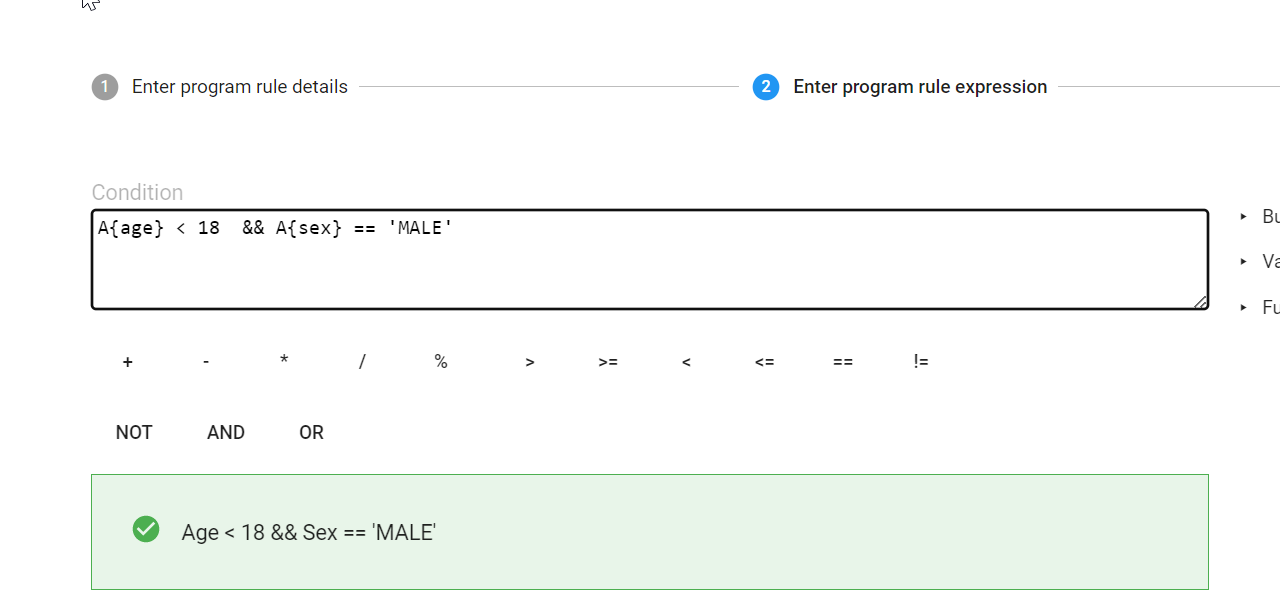
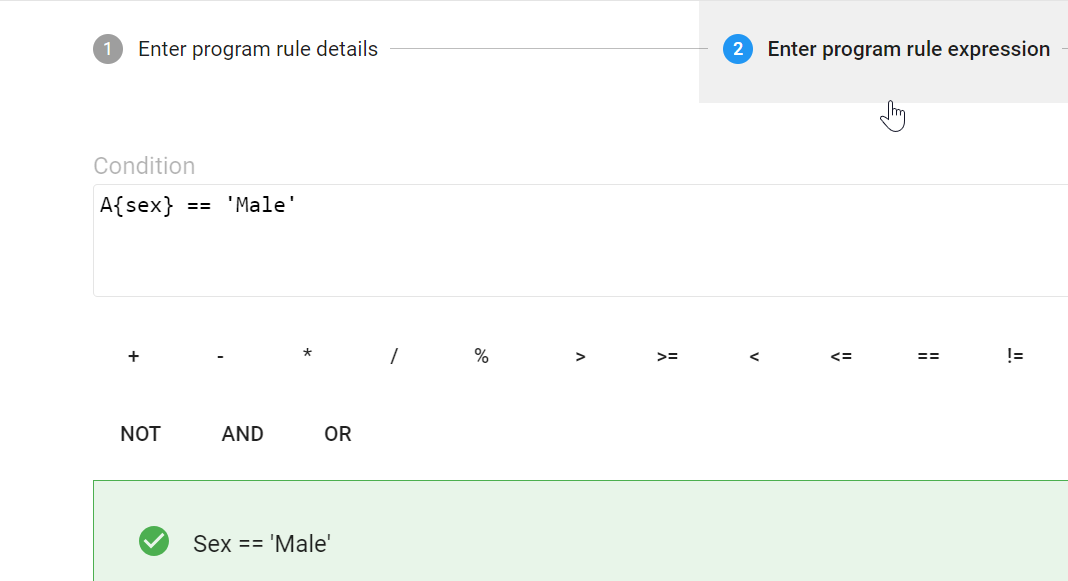
changes

diff --git a/content/tracker_config/tg_programrules.md b/content/tracker_config/tg_programrules.md
@@ -42,9 +42,9 @@ Decide how you would like to run the session. The guide has you alternating betw
 
 STOP - Have the participant’s perform Exercise 1 in the learner’s guide
 
-2. Create a program rule using the ANC program
+2. Create a program rule using the TB Treatment Program
    
-    1. If gravidity is one or less, hide parity
+    1. If sex is Male then hide Pregnant
     2. Test the rule
 
 STOP - Have the participant’s perform Exercise 2 in the learner’s guide
@@ -193,9 +193,9 @@ You will get an error message saying that the EPTB Site value was deleted. The l
 
 ![](Images/pr/image12.png)
 
-#### STOP - Have the participant’s perform Exercise 1 in the learner’s guide
+### STOP - Have the participant’s perform Exercise 1 in the learner’s guide
 
-## **Rule 2 -** Create a program rule to hide pregnant if Age is less than 18 and Gender is Male using the TB Program
+## **Rule 2 -** Create a program rule to hide pregnant if Gender is Male using the TB Program
 
 **Access the Programs rules from Maintenance App ⇒ Program**
 
@@ -209,18 +209,15 @@ You will get an error message saying that the EPTB Site value was deleted. The l
 
 **Add in a new program rule variable**
 
-![](Images/pr/image3.png)
-
-And
-
 ![](Images/pr/image37.png)
 
 **Create a Program Rule**
-Hide pregnant if sex is less than 18 and sex is Male
+
+Hide pregnant if sex is Male
 
 Enter the program rule details.
 
-In the expression, we are using numbers. There are no quotes needed around the number. We will also hide the pregnant if sex is Male.
+In the expression, we are using option from Gender that we have created 
 
 ![](Images/pr/image39.png)
 
@@ -228,7 +225,7 @@ In the expression, we are using numbers. There are no quotes needed around the n
 
 Clear the cache if needed, than go to tracker capture to test the rule
 
-Pregnant should be hidden if age is less than 18 and sex is Male
+Pregnant should be hidden if sex is Male
 
 ![](Images/pr/image34.png)
 
@@ -295,7 +292,7 @@ When the weight is within the range you have defined, or the weight data element
 
 ## Rule 4 - Create a program rule using the TB Treatment Card. 
 
-## Show the disease site in the feedback widget
+Show the disease site in the feedback widget
 
 **Access the Programs rules from Maintenance App ⇒ Program**
 

diff --git a/content/tracker_config/lg_programrules.md b/content/tracker_config/lg_programrules.md
@@ -138,7 +138,7 @@ You will get an error message saying that the EPTB Site value was deleted. The l
 
 ![](Images/pr/image12.png)
 
-## Exercise 1 - Create a program rule to hide pregnant if Age is less than 18 and Gender is Male using the TB Program
+## Exercise 2 - Create a program rule to hide Pregnant if Gender is Male using the TB Program
 
 **Access the Programs rules from Maintenance App ⇒ Program**
 
@@ -154,14 +154,11 @@ You will get an error message saying that the EPTB Site value was deleted. The l
 
 **Add in a new program rule variable**
 
-![](Images/pr/image3.png)
-
-And
-
 ![](Images/pr/image37.png)
 
 **Create a Program Rule**
-Hide pregnant if sex is less than 18 and sex is Male
+
+Hide pregnant if sex is Male
 
 Enter the program rule details.
 
